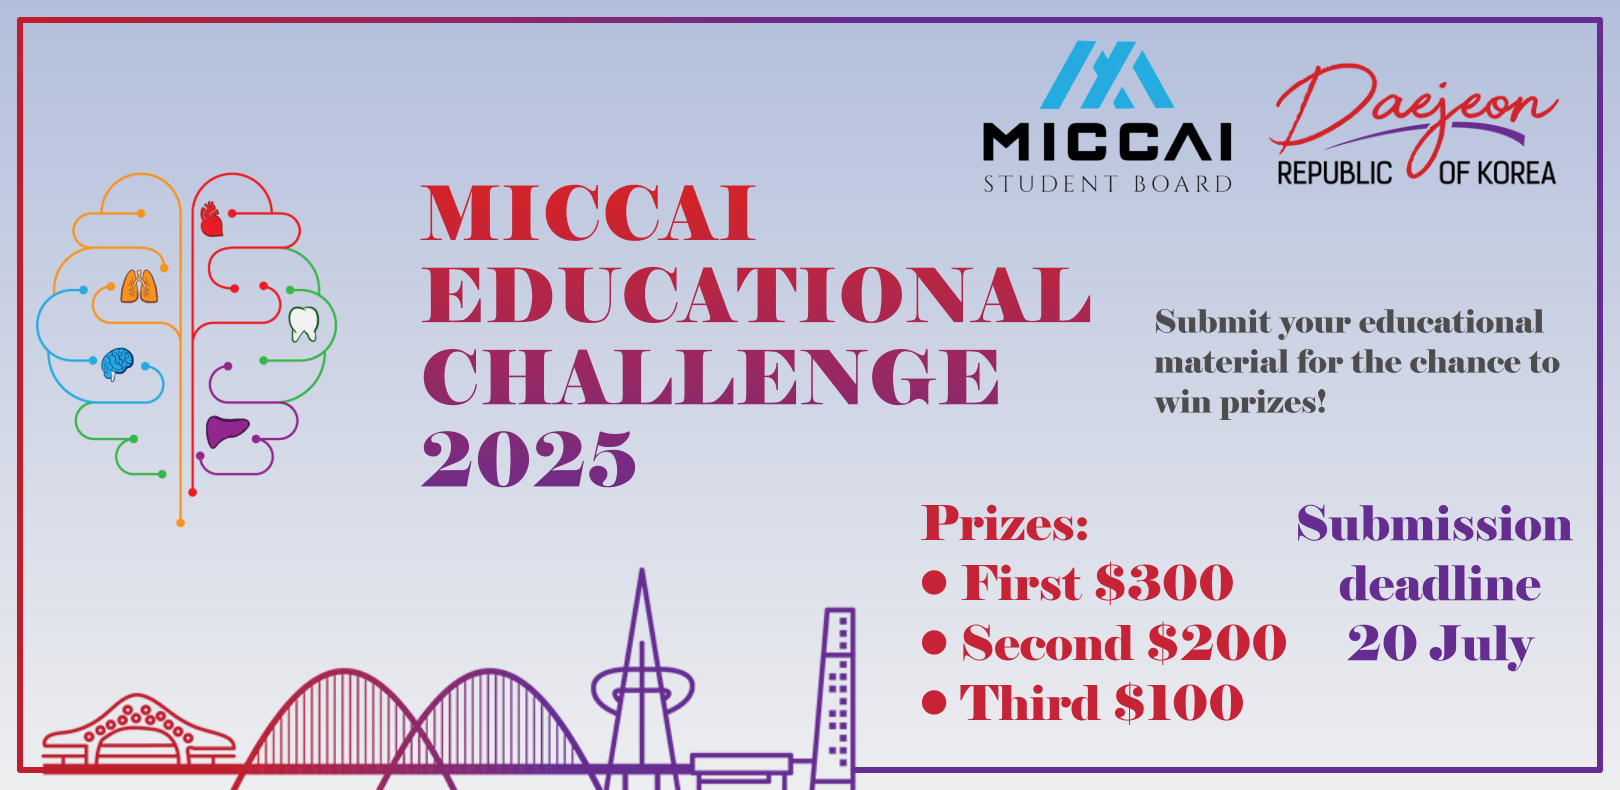
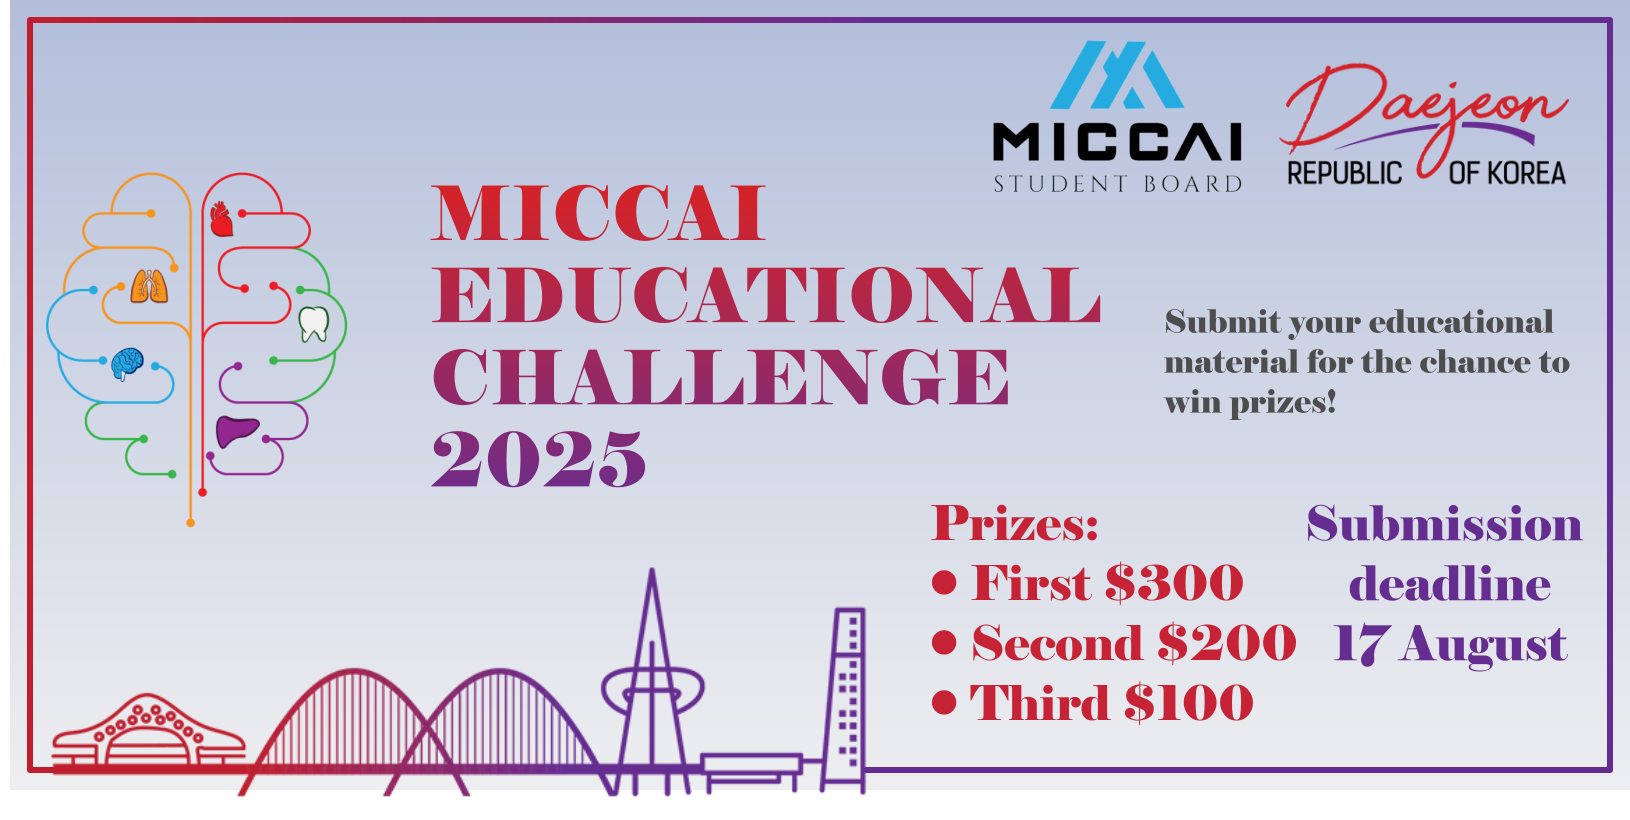
update deadline

diff --git a/challenge.html b/challenge.html
@@ -148,7 +148,7 @@ These are suggestions, not requirements. Any tutorial that helps lower the barri
 
   <h2>Important dates</h2>
   <ul>
-    <li>Submission deadline: July 20, 2025 Anywhere on Earth</li>
+    <li>Submission deadline: August 17, 2025 Anywhere on Earth</li>
       <!-- <strike>July 26, 2021</strike> <strike>August 02, 2021</strike> <font>August 16, 2021</font><span class="blink_text" style="color:red"> &ensp;Closed</span></li> -->
     <!-- <li>Expert judging: August 13 to September 12, 2018</li>
     <li>Popular voting deadline: Tuesday, September 18, 2018 at 11:55pm (CET).</li> -->
